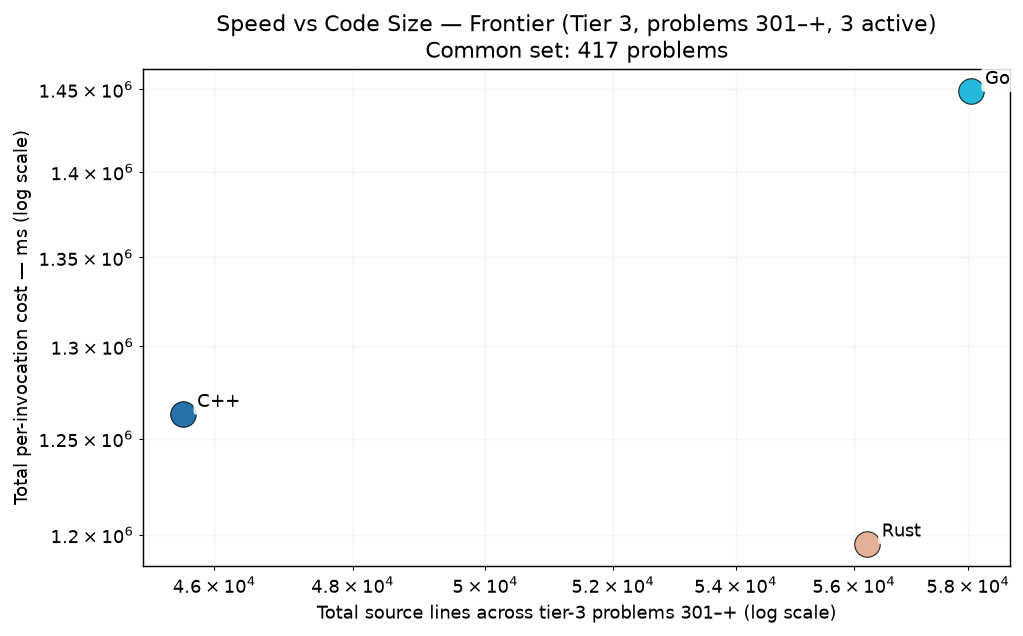
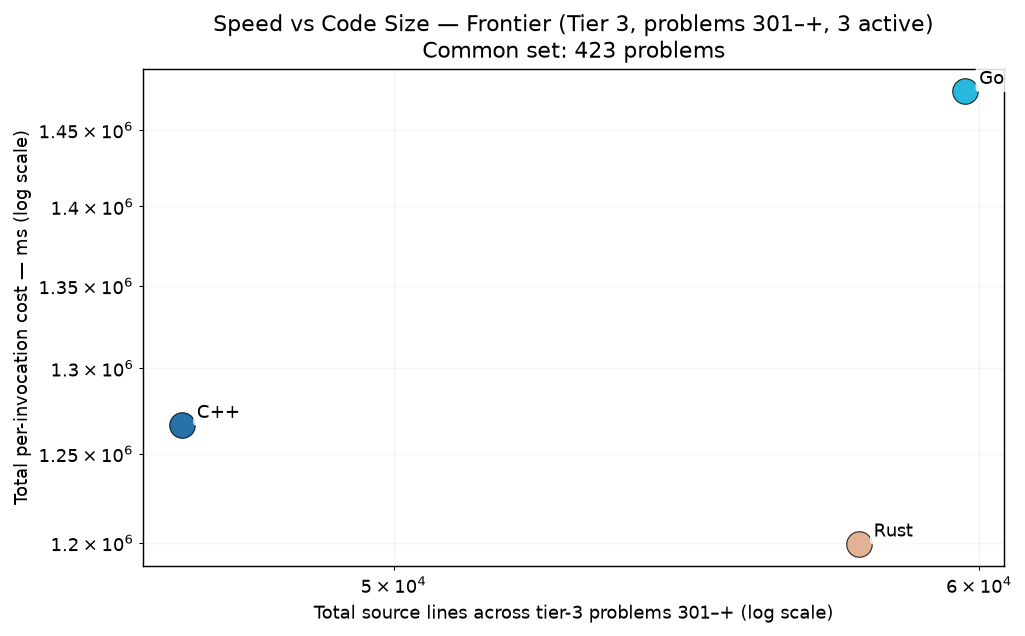
bench: frontier trio solves p0717,p0815,p0871,p0874,p0897,p0951

diff --git a/RESULTS.md b/RESULTS.md
@@ -1,6 +1,6 @@
 # Project Euler — Cross-Language Benchmarks
 
-> **Scope: 4521 in-scope cells across 1007 problems × tiered languages — 3666 measured (81.1% coverage).**
+> **Scope: 4521 in-scope cells across 1007 problems × tiered languages — 3684 measured (81.5% coverage).**
 > The cross-language ranking below is computed over the **199-problem common set** (problems in 1-200 where every language has a passing measurement) — the apples-to-apples Foundation comparison surface.  Per-tier rankings and coverage detail appear further below.
 > Growing carefully — each new problem and language is audited for state-leak
 > safety, verified for answer correctness, and added only when it cleanly fits the
@@ -70,15 +70,15 @@ Same scatter as the Foundation chart, restricted to the tier-2 active languages 
 
 The frontier verification trio — C++, Go, Rust — on problems above 300. 3-way cross-language agreement is the verification protocol (strictly stronger than 2-way; see JOURNEY.md "Tier Reframing" episode for the p254 lesson that motivated it). Python and Zig are explicitly out of this tier — python's wall cost makes it impractical at level 5+, and zig's role caps at Tier 2.
 
-### Per-Invocation Cost (Common Set, 417 of ≤707 problems in scope)
+### Per-Invocation Cost (Common Set, 423 of ≤707 problems in scope)
 
 ![Per-Invocation Cost — Tier 3](charts/per_iter_total_tier3.png)
 
-| Rank | Language | Geomean (417-problem common set) | Total (sum) | Lines of code | vs Fastest |
+| Rank | Language | Geomean (423-problem common set) | Total (sum) | Lines of code | vs Fastest |
 |------|----------|--------------------:|------------:|--------------:|-----------:|
-| 1 | **Rust** | 54.65 ms | 1195.43 s | 56,233 | 1.00× |
-| 2 | **C++** | 57.80 ms | 1263.08 s | 45,555 | 1.06× |
-| 3 | **Go** | 71.64 ms | 1448.80 s | 58,048 | 1.31× |
+| 1 | **Rust** | 55.39 ms | 1199.45 s | 57,802 | 1.00× |
+| 2 | **C++** | 58.21 ms | 1266.46 s | 46,817 | 1.05× |
+| 3 | **Go** | 73.92 ms | 1475.94 s | 59,733 | 1.33× |
 
 ### Speed vs Code Size
 

diff --git a/per_problem/per_problem_0801-0900.md b/per_problem/per_problem_0801-0900.md
@@ -22,7 +22,7 @@ in tier-1 display order (native → managed → interpreted).
 | **p0812** | — | — | — |
 | **p0813** | 217.2 µs | 94.4 µs | 94.0 µs |
 | **p0814** | — | — | — |
-| **p0815** | — | — | — |
+| **p0815** | 107.39 ms | 687.41 ms | 1.16 s |
 | **p0816** | 144.46 ms | 269.31 ms | 1.21 s |
 | **p0817** | 15.86 ms | 29.25 ms | 27.02 ms |
 | **p0818** | — | — | — |
@@ -78,10 +78,10 @@ in tier-1 display order (native → managed → interpreted).
 | **p0868** | 1.7 µs | 16.31 ms | 5.8 µs~ |
 | **p0869** | — | 381.19 ms | — |
 | **p0870** | — | — | — |
-| **p0871** | — | — | — |
+| **p0871** | 615.44 ms | 640.00 ms | 440.32 ms |
 | **p0872** | <1 µs~ | <1 µs | 1.1 µs~ |
 | **p0873** | 4.91 s | 2.14 s | 2.33 s |
-| **p0874** | — | — | — |
+| **p0874** | 70.78 ms | 49.75 ms | 89.57 ms |
 | **p0875** | — | — | — |
 | **p0876** | — | — | — |
 | **p0877** | <1 µs | 1.96 s | 1.1 µs~ |
@@ -104,7 +104,7 @@ in tier-1 display order (native → managed → interpreted).
 | **p0894** | — | — | — |
 | **p0895** | — | — | — |
 | **p0896** | — | — | — |
-| **p0897** | — | — | — |
+| **p0897** | 1.30 s | 1.31 s | 140.95 ms |
 | **p0898** | — | — | — |
 | **p0899** | 1.0 µs | 392.8 µs | 144.64 ms |
 | **p0900** | — | — | — |

diff --git a/per_problem/per_problem_0701-0800.md b/per_problem/per_problem_0701-0800.md
@@ -24,7 +24,7 @@ in tier-1 display order (native → managed → interpreted).
 | **p0714** | ✗ fail | — | — |
 | **p0715** | — | — | — |
 | **p0716** | — | — | — |
-| **p0717** | — | — | — |
+| **p0717** | 1.28 s | 1.33 s | 477.03 ms |
 | **p0718** | 1.92 s | 1.70 s | 6.34 s |
 | **p0719** | ✗ fail | — | — |
 | **p0720** | — | — | — |

diff --git a/per_problem/per_problem_0901-1000.md b/per_problem/per_problem_0901-1000.md
@@ -58,7 +58,7 @@ in tier-1 display order (native → managed → interpreted).
 | **p0948** | 203.6 µs | 20.7 µs | 41.8 µs |
 | **p0949** | — | — | — |
 | **p0950** | — | — | — |
-| **p0951** | — | — | — |
+| **p0951** | 67.7 µs | 203.4 µs | 24.83 s |
 | **p0952** | — | — | — |
 | **p0953** | — | — | — |
 | **p0954** | — | — | — |
